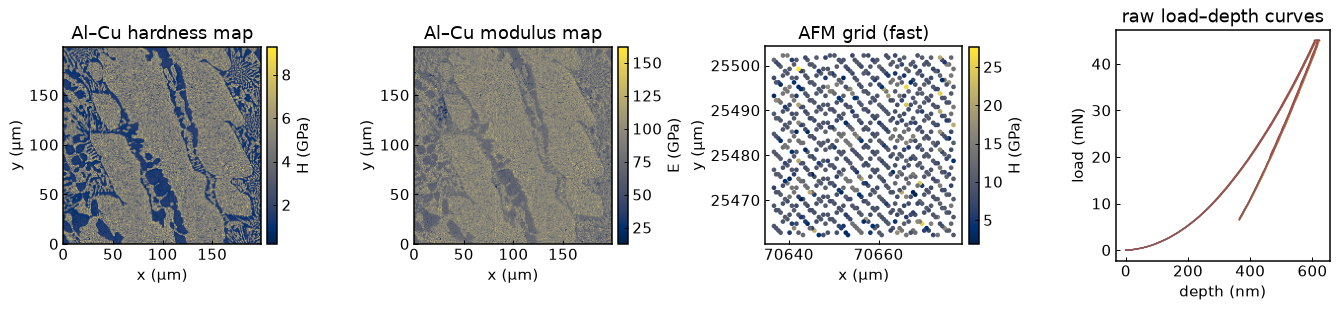
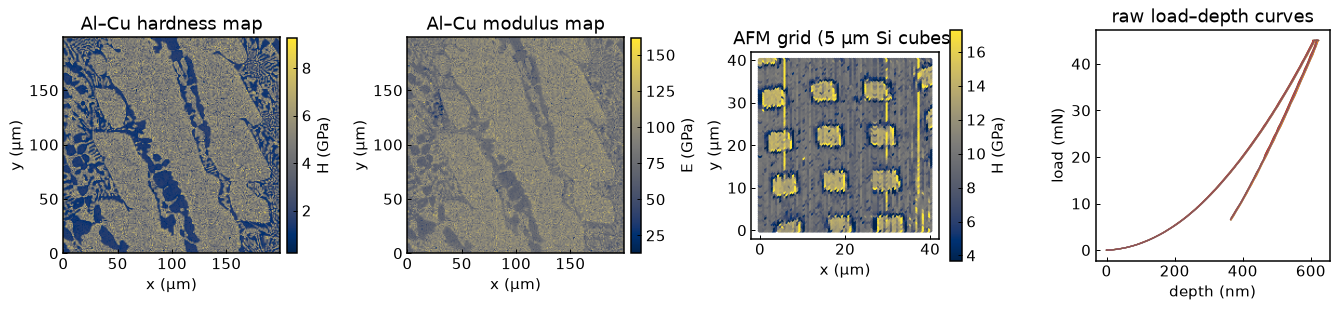
Wiki: regenerate stale dataset-overview image from the FULL AFM grid
The overview's "AFM grid" panel was generated before the datasets were
rebuilt from the complete .NMD files, so it still showed the old ~800-point
subsample (a sparse diagonal scatter that didn't make sense). Regenerated
from the full 6,554-indent grid — it now clearly shows the etched-silicon
surface with its regular array of exposed 5 µm cubes, on local 0–40 µm axes.
Renamed the panel from the vague "AFM grid (fast)" to "AFM grid (5 µm Si cubes)"
and updated the caption. All other ds_*.png were already regenerated post-refresh.

diff --git a/wiki/Datasets.md b/wiki/Datasets.md
@@ -5,8 +5,8 @@ the repo's `data/` folder — no downloads, no logins. Load it all through one h
 `import mecanano_ml as mm`.
 
 ![Overview of the tutorial datasets](images/datasets_overview.png)
-*From left: the Al–Cu hardness map, the same area's modulus map, the small AFM grid,
-and a few raw load–depth curves.*
+*From left: the Al–Cu hardness map, the same area's modulus map, the full AFM grid on
+etched silicon (the regular array of exposed 5 µm cubes), and a few raw load–depth curves.*
 
 ## High-speed nanoindentation maps — single depth (`data/nanoindent_maps/`)
 Al–Cu eutectic and duplex-steel maps (plus a titanium map): **one** hardness `H`,